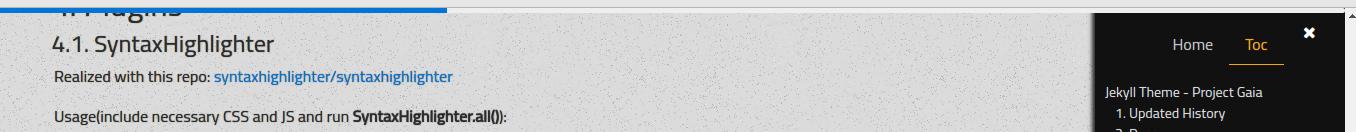
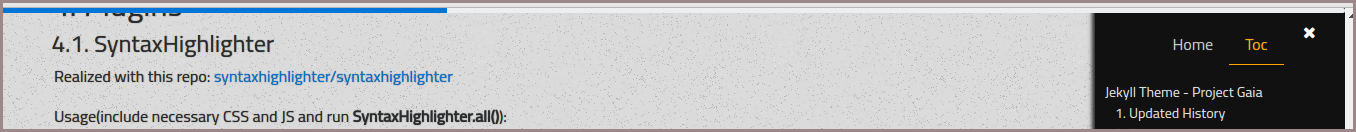
Updated: * Pic Link * Readme

Changed region(s): [[0.0, 0.0, 1.0, 1.0]]

diff --git a/README.md b/README.md
@@ -3,10 +3,12 @@
 
 ## Updated History
 
+- May 30th, 2017
+Added a reading progressbar for post page.
+
 - May 6th, 2017
 Updated font page
 Added global font style
->Texts are more clear now!
 
 - April 3nd, 2017
 Added new font
@@ -93,6 +95,14 @@ stickie: true
 </pre>
 
 Then current post will show ahead of other posts.
+
+### Reading Progressbar
+
+Inspired from [http://es6.ruanyifeng.com/#docs/promise](http://es6.ruanyifeng.com/#docs/promise)
+
+![](   https://szhielelp.github.io/JekyllTheme-ProjectGaia/demo/X4.png   )
+
+It will show your reading progress for current post.
 
 
 ## Extra
